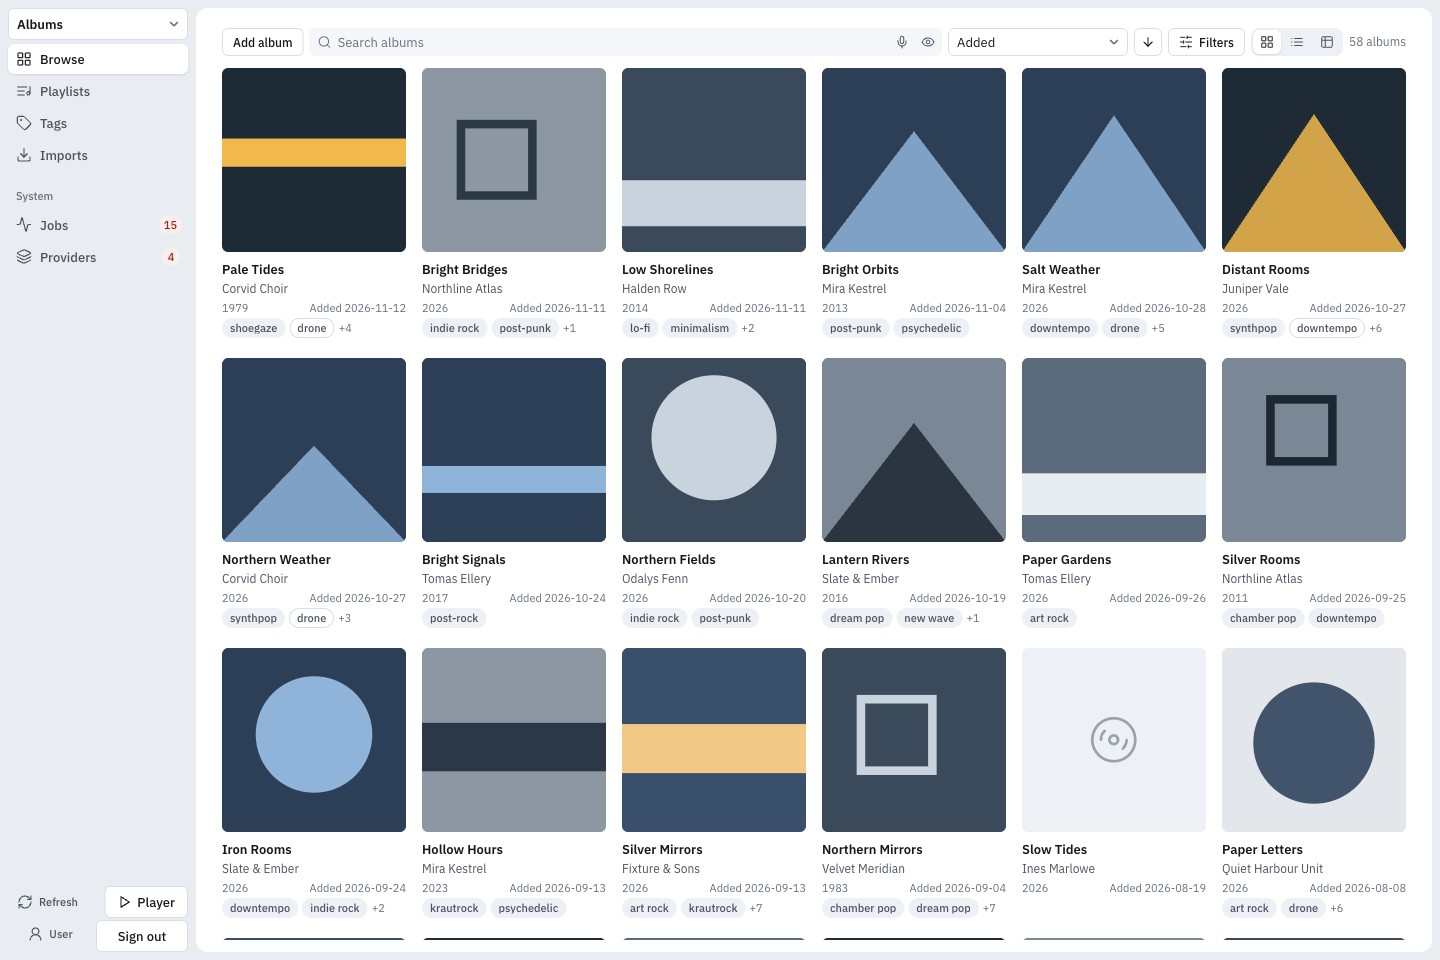
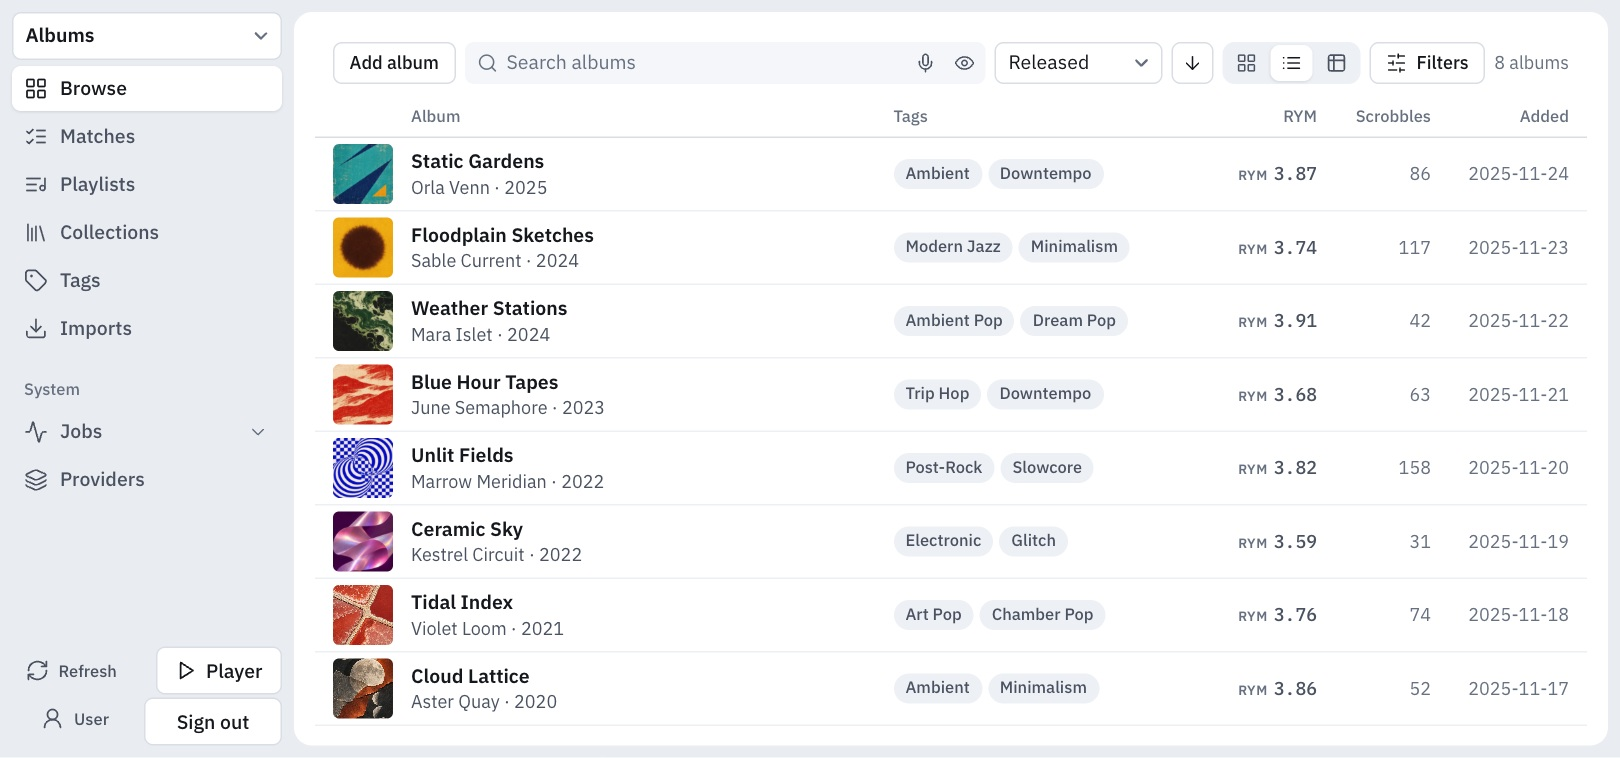
Simplify the README and refresh the app screenshots

diff --git a/README.md b/README.md
@@ -1,84 +1,36 @@
 # NFS Media Manager
 
-A personal library for films and albums. Bring in your collection, enrich it with metadata from the providers you choose, and browse it in an artwork grid or a compact table.
+A self-hosted library for films, albums and tracks. Browse by artwork, follow a credit to the rest of an artist’s work, or filter your collection by genre, release year and rating.
 
-This project is a fork of [CSDR Cloud Spatial App](https://github.com/SustainableDevelopmentReform/csdr-cloud-spatial-app), adapted into a personal media library. See [attribution and licenses](NOTICE) for its origins and retained upstream notices.
+[Set up locally](docs/getting-started.md) · [Import a collection](docs/importing.md) · [Documentation](docs/README.md)
 
-![Film library with artwork and provider ratings](docs/screenshots/films.jpg)
+![Film library in grid view, with poster artwork, directors, release years, IMDb ratings and genre filters](docs/screenshots/films.jpg)
 
-## What it does
+_Screenshots show a demo collection._
 
-- **Browse your collection.** Search titles, people and tags; filter and sort metadata; switch between grid, list and table views. Open details without losing your place.
-- **Bring your own library.** Preview IMDb ratings/watchlist CSVs, album CSVs and local NFO files before importing. Spotify can import saved albums with your permission.
-- **Search your subscriptions.** Sync the YouTube channels you subscribe to and the Spotify podcasts you save, then search their videos and episodes by text, channel, type, length and date.
-- **Choose your metadata.** Configure providers independently and fetch only the films or albums you select. Ratings link back to their sources.
-- **Keep track of changes.** Inspect provider history, correct identifiers, manage tags and preserve personal ratings and manual edits.
-- **Control background work.** Review jobs before starting them, monitor progress, and retry unfinished work. Provider budgets and cooldowns stay in place.
+## Films
 
-This is a self-hosted app for a personal collection. It runs a Next.js frontend, a Hono API and PostgreSQL. Spotify links open in Spotify. Optional [in-app playback](docs/spotify-playback.md) for Spotify Premium accounts is off until you connect it from the player.
+Preview an IMDb watchlist, ratings CSV or folder of NFO files before importing. Open a film to see its cast, compare ratings across sources and mark it as watched without leaving the grid.
 
-## Getting started
+<details>
+<summary>See the film inspector</summary>
 
-You need **Node.js 22**, **pnpm 9.12** and **PostgreSQL 17**. Docker Compose can supply the local database. Clone this repository and run these commands from its root:
+![Film inspector open beside the poster grid, showing ratings, synopsis and credits for Signal at Dusk](docs/screenshots/film-details.jpg)
 
-```sh
-corepack pnpm install --frozen-lockfile
-cp .env.example.local .env
-```
+</details>
 
-Edit `.env`: set `INITIAL_USER_EMAIL`, `INITIAL_USER_NAME` and `INITIAL_USER_PASSWORD`, then replace `BETTER_AUTH_SECRET` and `MEDIA_ENCRYPTION_KEY` with two different random secrets. Generate each one with `openssl rand -hex 32`.
+## Music
 
-```sh
-docker compose -f docker-compose-dev.yml up -d db
-corepack pnpm --filter @repo/schemas build
-corepack pnpm --filter @repo/media-plugin-sdk build
-corepack pnpm --filter @repo/server migrate
-corepack pnpm --filter @repo/server seed
-corepack pnpm dev
-```
+Import albums from CSV or bring in saved albums, playlists and Liked Songs from Spotify. Open a track to see which albums and playlists include it. Connect Last.fm to browse your listening history alongside your collection.
 
-Open [localhost:3000](http://localhost:3000) and sign in with the account you configured. Start at **Imports** to add your first films or albums. API keys are optional: you can import files and browse without them.
+![Eight albums in list view with cover thumbnails, artists, tags, ratings and listening counts](docs/screenshots/albums.jpg)
 
-The [getting started guide](docs/getting-started.md) covers the full setup, environment variables, API-key links, Spotify authorization and troubleshooting. Existing installations should follow the [upgrade and backup notes](docs/getting-started.md#upgrading-and-backing-up) before changing configuration or running migrations.
+The library selector also includes [YouTube subscriptions and Spotify podcasts](docs/subscriptions.md) and [radio mixes](docs/mixes.md).
 
-## Metadata providers
+## Running locally
 
-| Library | Providers                                                          |
-| ------- | ------------------------------------------------------------------ |
-| Films   | TMDb, OMDb, MDBList                                                |
-| Albums  | Spotify, MusicBrainz, Last.fm, Discogs, Serply for Rate Your Music |
-
-Open a service from **Providers**: **Settings** holds its credentials and limits, and **Overview** shows its requests. Only configure the services you want to use. Some services require an account or paid API access. Serply uses indexed search results, so its ratings can lag the source.
-
-![Album library](docs/screenshots/albums.jpg)
-
-## Working with your library
-
-Use the library selector to switch libraries. Filters, sorting, visible table columns and grid density are saved separately. **Filters** opens a panel from the right with collapsible **Views**, **Smart playlists** (albums), **Ranges**, **Listening** (albums) and **Columns** (table) sections. Search, sorting, the layout switcher and result count stay in the toolbar.
-
-Film and album details bring together ratings, credits, tags, provider links and history. Correct metadata in Edit; those overrides survive later imports and refreshes.
-
-![Film details](docs/screenshots/film-details.jpg)
-
-**Jobs → Metadata** handles both first-time lookups and refreshes. Select items and providers, review the total, then confirm. On **Jobs**, select jobs, choose an action and review it before applying it. Viewing a page never starts a metadata job.
-
-![Jobs](docs/screenshots/jobs.jpg)
-
-![Providers overview](docs/screenshots/providers.jpg)
-
-## Documentation
-
-- [Getting started, configuration and troubleshooting](docs/getting-started.md)
-- [Import formats and existing-library migration](docs/importing.md)
-- [Spotify saved albums and account setup](docs/spotify-album-imports.md)
-- [Subscriptions: YouTube channels and Spotify podcasts](docs/subscriptions.md)
-- [Local provider plugins](docs/local-plugins.md)
-- [Local HTTP worker for cloud jobs](docs/local-worker.md)
-- [Development and verification](docs/development.md)
-- [All documentation](docs/README.md)
-
-This is an early release. Back up your database before upgrading. Provider availability, quotas and returned fields vary; historical ratings are not guaranteed to be current. Credentials, library exports and local plugins are excluded from Git.
+The [setup guide](docs/getting-started.md) walks through starting the app with Node.js 22, pnpm and PostgreSQL 17. Docker Compose can run the database. File imports and browsing work without provider credentials. Connect a metadata provider when you want to look up ratings, artwork or credits.
 
 ## License
 
-Original NFS Media Manager code is licensed under [MIT](LICENSE). Code adapted from CSDR Cloud Spatial App retains its [Apache 2.0 license and upstream MIT notice](LICENSES/csdr-cloud-spatial-app.txt); see [NOTICE](NOTICE) for attribution. Provider names, marks and media artwork belong to their respective owners.
+Original Media Manager code is licensed under [MIT](LICENSE). The project is a fork of CSDR Cloud Spatial App and retains its [Apache 2.0 license and upstream MIT notice](LICENSES/csdr-cloud-spatial-app.txt). See [NOTICE](NOTICE) for attribution.
